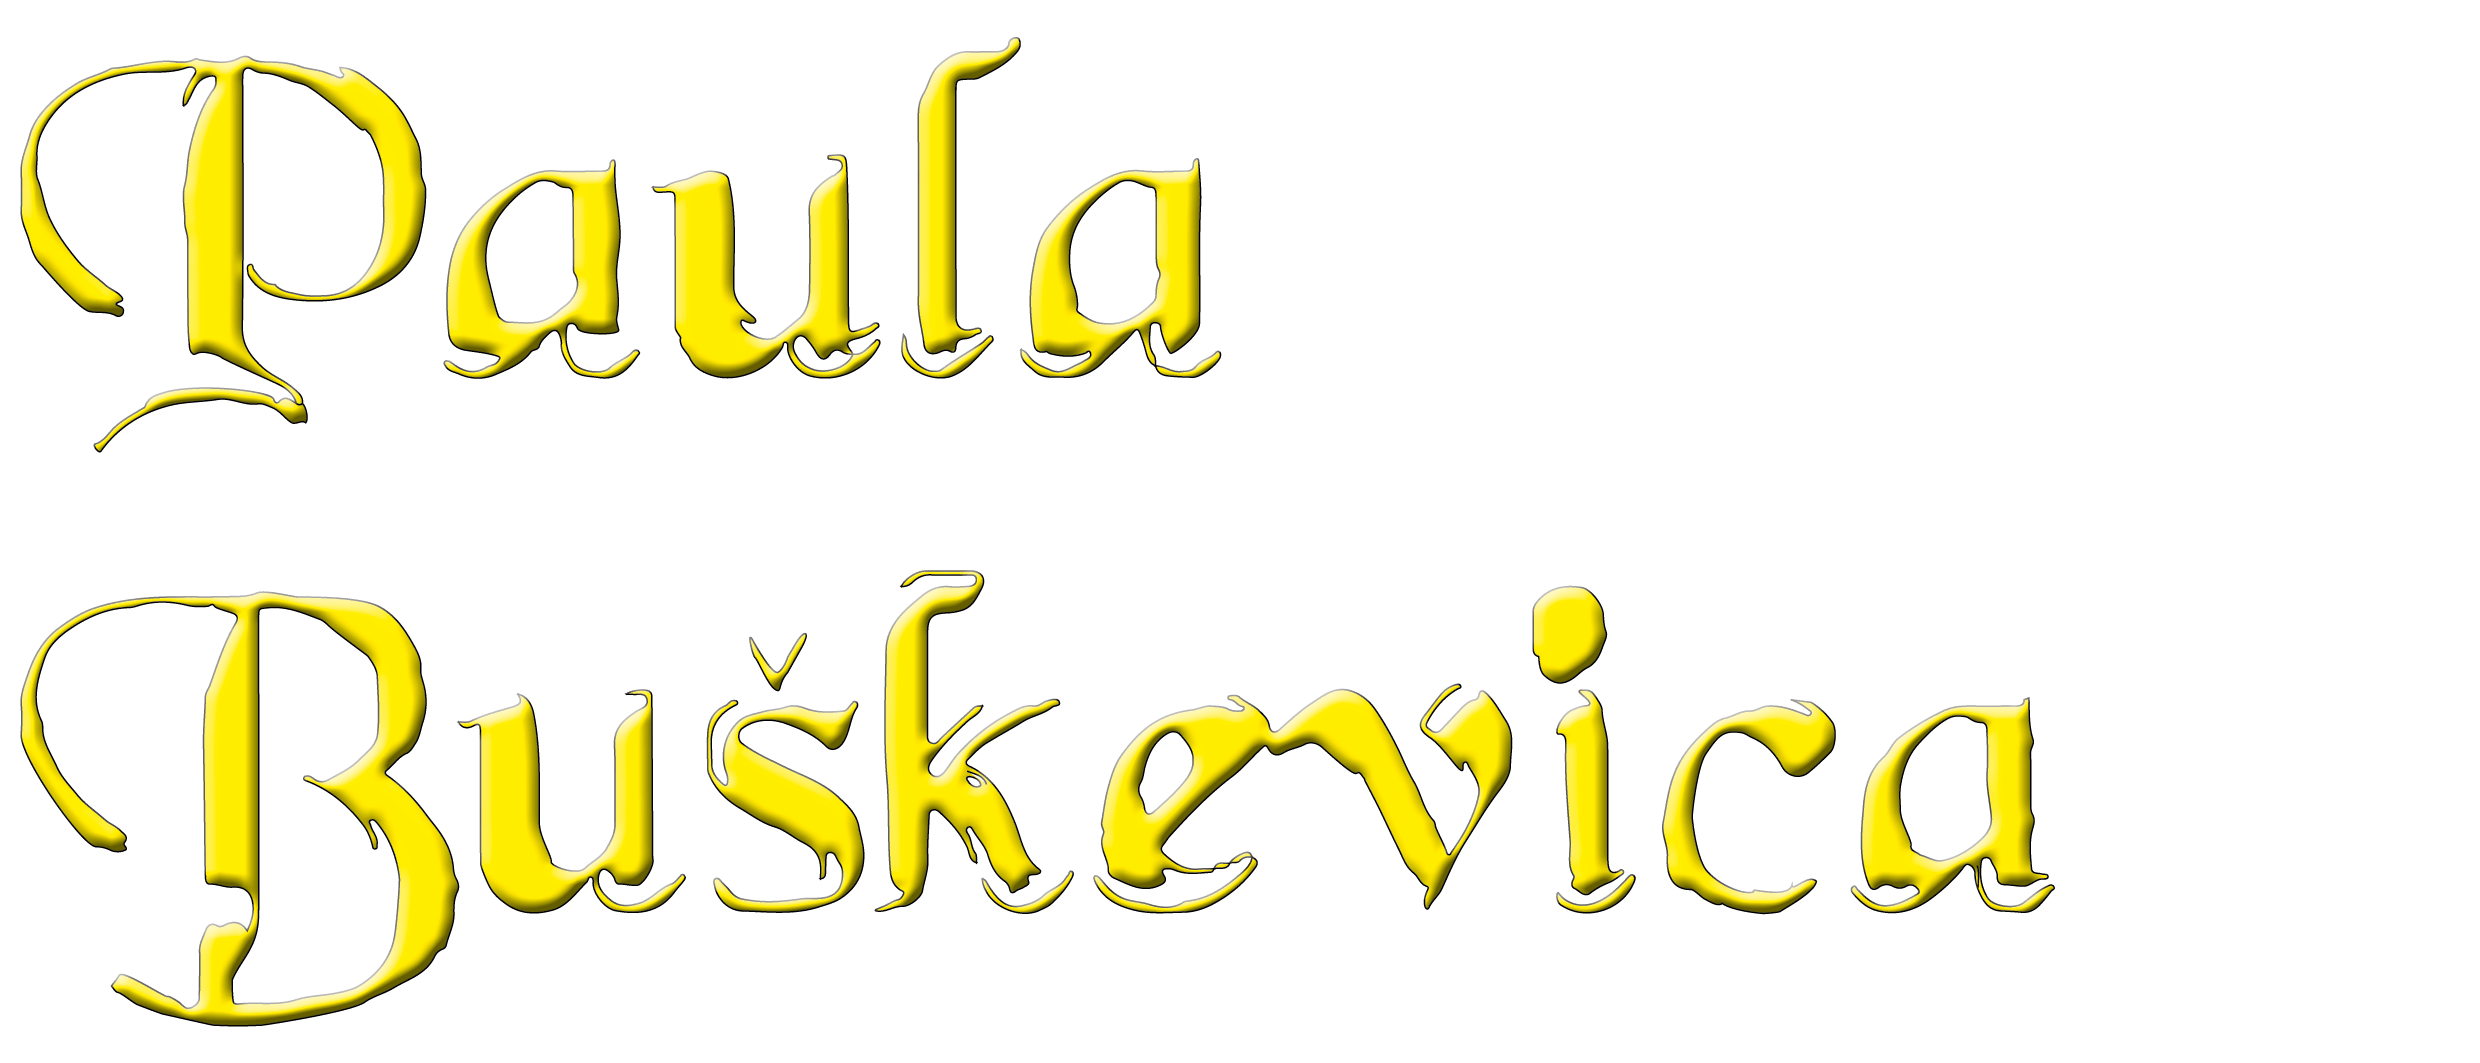
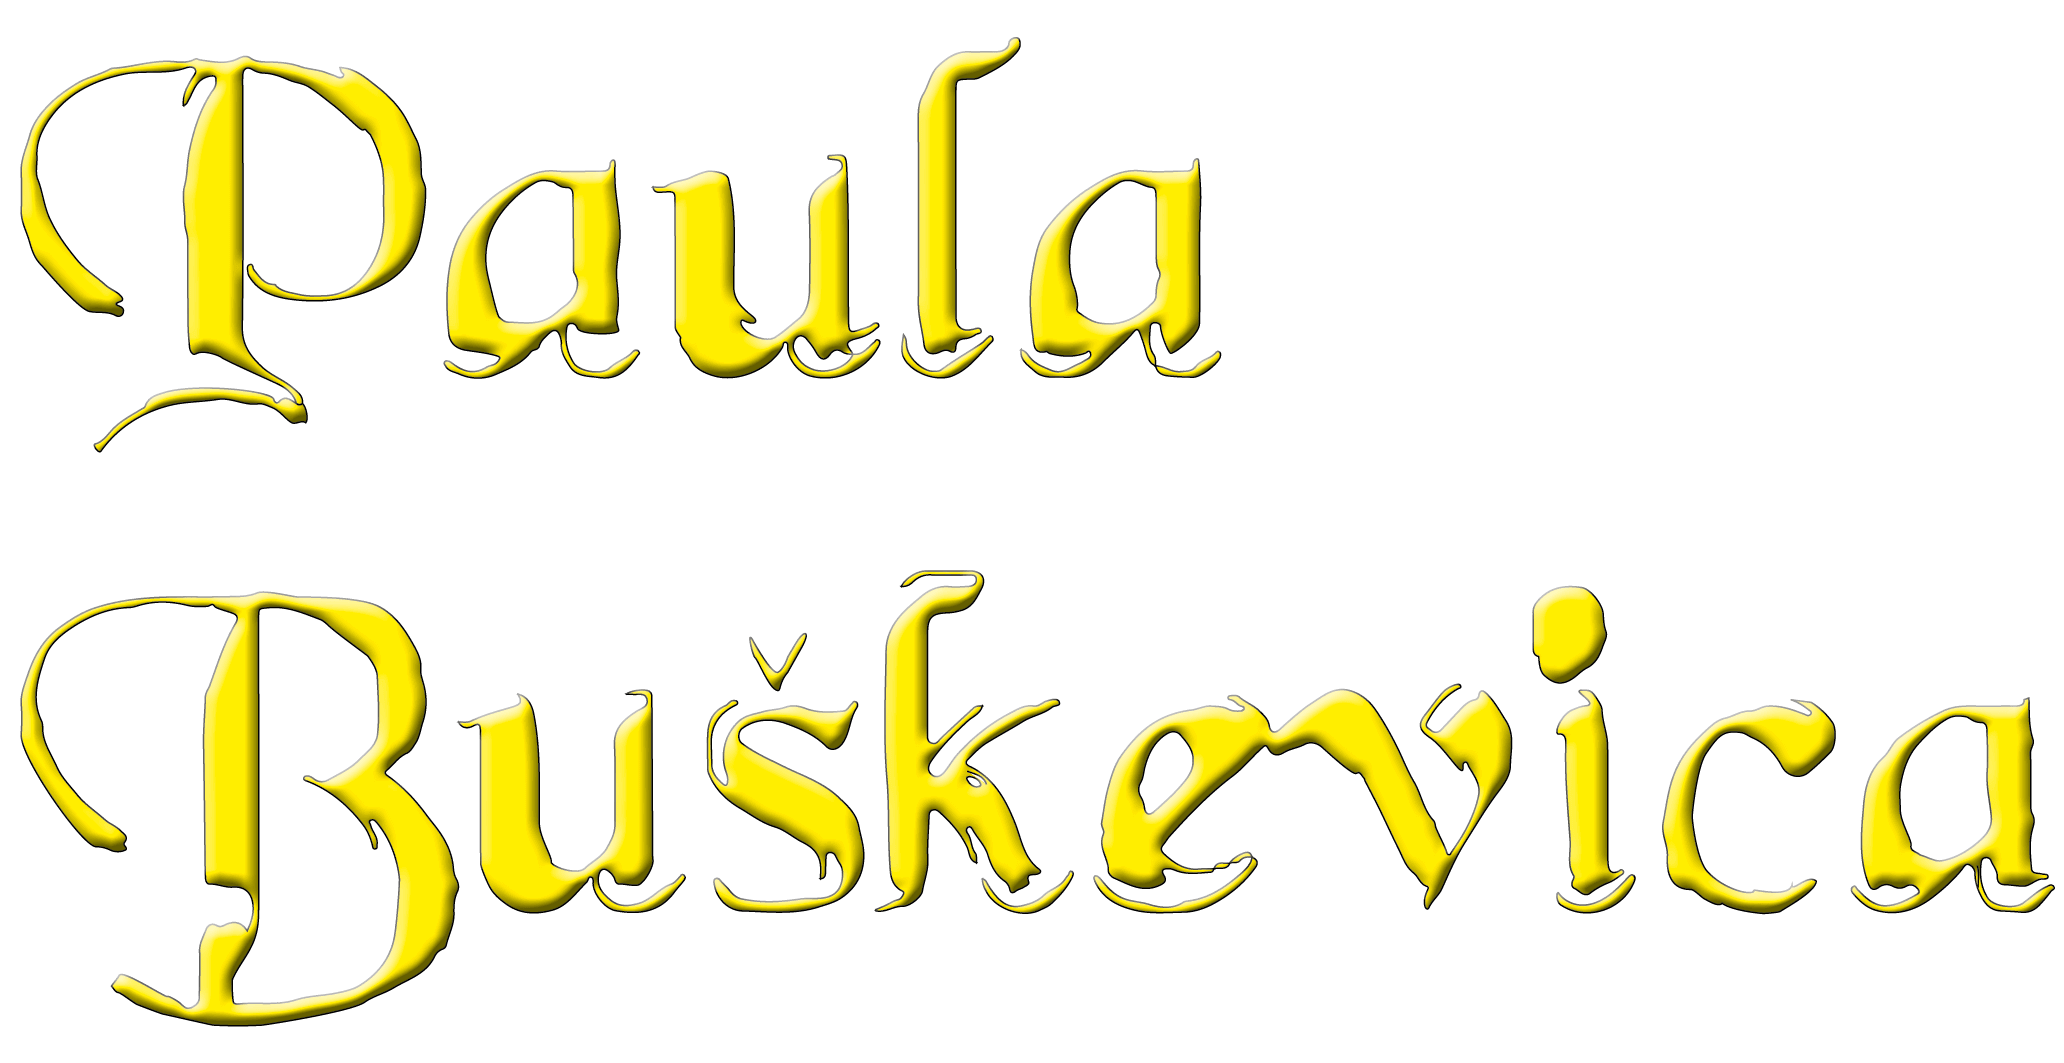
all of it

Changed region(s): [[0.0, 0.5278, 0.9922, 0.9934], [0.0, 0.031, 0.5891, 0.4346]]

diff --git a/index.html b/index.html
@@ -3,10 +3,11 @@
 <meta charset="utf-8"> 
 <link rel="stylesheet" href="./style.css">
 <title>who is she</title>
-<meta name="description" content="Paula Buskevica is a something something and does something with something something.">
+<meta name="description" content="Paula Buškevica is a something something and does something with something something.">
 <meta name="keywords" content="paula buskevica, paula, graphic design, exhibitions, projects, oh radio, tendency towards, artist, lover">
-<meta name="viewport" content="width=device-width, initial-scale=1.0">
-<script type="text/javascript" src="./script.js"></script>
+<meta name="viewport" content="width=device-width, initial-scale=1">
+<script src="https://cdnjs.cloudflare.com/ajax/libs/modernizr/2.8.3/modernizr.min.js" integrity="sha512-3n19xznO0ubPpSwYCRRBgHh63DrV+bdZfHK52b1esvId4GsfwStQNPJFjeQos2h3JwCmZl0/LgLxSKMAI55hgw==" crossorigin="anonymous" referrerpolicy="no-referrer"></script>
+<script src="https://code.jquery.com/jquery-3.6.0.min.js" integrity="sha256-/xUj+3OJU5yExlq6GSYGSHk7tPXikynS7ogEvDej/m4=" crossorigin="anonymous"></script>
 </head>
 <body>
 	<div>
@@ -22,27 +23,32 @@
 		<u>currently thinking about these words:</u>
 		 no risk no magic, accidental advice, confidence, forgetting while remembering, live stream, digging and falling and verbs in general
 		<br><br>
-		 		<u>some projects & exhibitions</u><br>
-		<a class="oh" href="https://oh.eka-gd-ma.ee">oh</a><br>
-		<a class="tt" href="https://tendencytowards.com/Projects">Tendency Towards</a><br>
-		<a href="https://www.instagram.com/accidentaladvice">Accidental Advice</a>
+		<u>texts</u><br>
+		Just Before Something Happens, Just After Something Happens, Something Happens, 2022 (upon request)<br><br>
+		<u>some projects & exhibitions</u><br>
+		<a class="oh" href="https://oh.eka-gd-ma.ee" target=”_blank”>oh</a><br>
+		<a class="tt" href="https://tendencytowards.com/Projects" target=”_blank”>Tendency Towards</a><br>
+		<a class="aa" href="https://www.instagram.com/accidentaladvice" target=”_blank”>Accidental Advice</a>
 		<br><br>
-		<a href="https://www.history-joy.cc/projects/great-expectations"> History of Joy Pt. 4, <i>Great Expectations</i> </a> by Kristiāna Marija Sproģe <i>2021</i><br>
-		<a href="https://garden.eka-gd-ma.ee"> Cikigu trttprptt </a> with EKA GD MA in Tiergarten, Berlin <i>2021</i><br>
-		mold dust life energy, IKOLONI, Malmö <i>2019</i><br>
-		<a href="https://fondazioneratti.org/art-lab/how-to-begin">Laboratorio Aperto</a>, Asilo Sant' Elia, Como <i>2018</i><br>
-		Positive Geography, Hatch, Aberdeen, 2018 <br>
-		<a href="https://www.royalscottishacademy.org/exhibitions/rsa-new-contemporaries-2018/">RSA New Contemporaries</a>, Royal Scottish Academy, Edinburgh <i>2018</i><br>
-		Exposure, Humboldt State University, Humboldt, CA <i>2016</i><br>
+		<a href="https://silenceafterearlyhours.eka-gd-ma.ee/" target=”_blank”> Silence After Early Hours</a> with EKA GD MA, Tallinn <i>2022</i><br>
+		<a href="https://www.history-joy.cc/projects/great-expectations" target=”_blank”> History of Joy Pt. 4, Great Expectations</a> by Kristiāna Marija Sproģe <i>2021</i><br>
+		<a href="https://garden.eka-gd-ma.ee" target=”_blank”> Cikigu trttprptt </a> with EKA GD MA in Tiergarten, Berlin <i>2021</i><br>
+		<a href="https://www.thebarnarts.co.uk/artists/exhibitions/tendency-towards" target=”_blank”>Haunted by the ghost of a flower</a> with Tendency Towards, The Barn, Banchory <i>2020</i><br>
+		<a href="https://www.instagram.com/p/Bwl0Y-ABvco/" target="_blank">mold dust life energy</a>, IKOLONI, Malmö <i>2019</i><br>
+		When leaning in makes no sense, wasserwasser, Vienna <i>2019</i><br>
+		<a href="https://fondazioneratti.org/art-lab/how-to-begin" target=”_blank”>Laboratorio Aperto</a>, Asilo Sant' Elia, Como <i>2018</i><br>
+		<a href="https://www.royalscottishacademy.org/exhibitions/rsa-new-contemporaries-2018/" target=”_blank”>RSA New Contemporaries</a>, Royal Scottish Academy, Edinburgh <i>2018</i><br>
 		MDF, Tin Roof, Dundee <i>2016</i> <br>
-		RAPID, AU Gallery, Vienna <i>2016</i><br>
 		<br>
-		<u>awards & residencies</u> <br>
-		Royal Scottish Academy Chalmers Bursary <i>2018</i><br>
-		RSA New Contemporaries (Selected Artist) <i>2018</i><br><br>
+		<u>awards/residencies</u> <br>
+		Royal Scottish Academy Chalmers Bursary <i>2018</i><br><br>
 		XXIV CSAV Artists' Research Laboratory, Fondazione Antonio Ratti, Como <i>2018</i><br>
 		SSW, Scottish Sculpture Workshop, Lumsden <i>2016</i><br>
 		<br>
+		<u>seen in</u><br>
+		<a href="https://www.cornerhousepublications.org/publications/how-to-begin/" target=”_blank”>How to Begin</a> Compagnia<br>
+		<a href="https://poppermag.bigcartel.com/product/paperweight-vol-1" target=”_blank”>Paperweight Vol. 1</a> Popper Publishing
+		<br><br>
 		b. <i>1994</i> Latvia
 		</p> 
 	</div>	
@@ -50,9 +56,22 @@
 			<div class="one">
 				<img src="./images/PB.png">
 			</div>
-			<div class="gallery">
+<!-- 			<div class="gallery">
 			<img src="./images/exercise.jpg">
-			</div>
+			</div> -->
+			<div class="slider slider-1">
+  <div class="photos">
+    <img src="./images/thekiss.png" class="shown" alt="">
+    <img src="./images/exercise.jpg" alt="">
+    <img src="./images/holyguacamoleA3.jpg" alt="">
+    <img src="https://i.ibb.co/cNWS2Vy/fish2.jpg" alt="">
+    <div class="buttons">
+      <div class="prev"></div>
+      <div class="next"></div>
+    </div>
+  </div>
+</div>
 	</div>
+	<script type="text/javascript" src="./script.js"></script>
 </body>
 </html>

diff --git a/style.css b/style.css
@@ -44,17 +44,17 @@ a {
 }
 
 .text {
-	position: fixed;
+  position: fixed;
   z-index: 1;
   margin-left: 5px;
-  font-size: 1em;
-  line-height: 1.23em;
+  font-size: 0.93em;
+  line-height: 1.2em;
 }
 
 .oh {
 	color: pink;
-    animation: color-change 5s infinite;
-    animation-duration: 5s;
+    animation: color-change 3s infinite;
+    animation-duration: 8s;
     animation-timing-function: ease;
     animation-delay: 0s;
     animation-iteration-count: infinite;
@@ -82,6 +82,41 @@ a {
 
    100% {
      color:hotpink;
+   }
+
+}
+
+.aa {
+  color: pink;
+    animation: color-change 5s infinite;
+    animation-duration: 5s;
+    animation-timing-function: ease;
+    animation-delay: 0s;
+    animation-iteration-count: infinite;
+    animation-direction: normal;
+    animation-fill-mode: none;
+    animation-play-state: running;
+    animation-name: color-changee;
+}
+@keyframes color-changee {
+   0% {
+    color:mediumpurple;
+   }
+
+   15% {
+    color: khaki;
+   }
+
+   25% {
+    color: springgreen;
+   }
+
+   50% {
+    color: sandybrown;
+   }
+
+   100% {
+     color:honeydew;
    }
 
 }
@@ -119,11 +154,101 @@ img {
 	padding-bottom: 20em;
   padding-right:20px;
   z-index:-20;
-  width: 116%;
+  width: 98%
 }
 
 .gallery {
   z-index: 20;
   width: 82%;
-  margin-bottom: 1em;
+  margin-bottom: 1.3em;
+}
+
+.slider {
+    width: 62%;
+    text-align: center;
+    z-index: 20;
+}
+
+.slider .photos {
+    position: relative;
+    height: 433px;
+}
+
+.slider .photos img {
+    width: 100%;
+    position: absolute;
+    left: 0;
+    opacity: 0;
+    padding-bottom: 2em;
+/*    transition: opacity 1s;*/
+}
+
+.slider .photos img.shown {
+    opacity: 1;
+}
+
+.prev:before,
+.next:before {
+    color: transparent;
+    font-size: 30em;
+    position: absolute;
+    top: -8%;
+    cursor: pointer;
+}
+
+.prev:before {
+  content: '.';
+  left: 0;
+}
+
+.next:before {
+  content: '.';
+  right: 0;
+}
+
+
+@media only screen and (max-width: 600px) {
+  body {
+  max-height: 1400px;
+  }
+
+ .text {
+  font-size: 1.1em;
+  position: absolute;
+  max-width: 20em;
+  top: 14em;
+  padding-bottom: 2em;
+}
+
+.img {
+    display: flex;
+    flex-direction: column;
+    /* column-gap: 10px; */
+    position: relative;
+    /* top: 5px; */
+    padding-left: 0;
+    margin-left: 0;
+}
+
+.one{
+  display: none;
+/*  position: relative;
+  width: 232%;
+  transform: rotate(-90deg);
+  padding-bottom: 30em;*/
+}
+
+.slider {
+    width: 96%;
+    margin-left: 0;
+    position: fixed;
+    z-index: 20;
+    padding-left: 0;
+}
+
+/*.gallery {
+  width: 135%;
+  max-width: 27em;
+}*/
+
 }

diff --git a/script.js b/script.js
@@ -1,0 +1,50 @@
+$(function() {
+
+    new Slider({
+        images: '.slider-1 img',
+        btnPrev: '.slider-1 .buttons .prev',
+        btnNext: '.slider-1 .buttons .next',
+        auto: false
+    });
+});
+
+
+function Slider(obj) {
+
+  this.images = $(obj.images);
+  this.auto = obj.auto;
+  this.btnPrev = obj.btnPrev;
+  this.btnNext = obj.btnNext;
+    this.rate = obj.rate || 1000;
+
+  var i = 0;
+    var slider = this;
+
+    // The "Previous" button: to remove the class .shoved, show the previous image and add the .shoved class
+  this.prev = function () {
+    slider.images.eq(i).removeClass('shown');
+    i--;
+
+    if (i < 0) {
+      i = slider.images.length - 1;
+    }
+
+    slider.images.eq(i).addClass('shown');
+  }
+
+    // The "Next" button: to remove the class .shoved, show the next image and add the .shoved class
+  this.next = function () {
+    slider.images.eq(i).removeClass('shown');
+    i++;
+
+    if (i >= slider.images.length) {
+      i = 0;
+    }
+
+    slider.images.eq(i).addClass('shown');
+  }
+
+    // To add next and prev functions when clicking the corresponding buttons
+    $(slider.btnPrev).on('click', function(){ slider.prev();});
+    $(slider.btnNext).on('click', function(){ slider.next();});
+};
